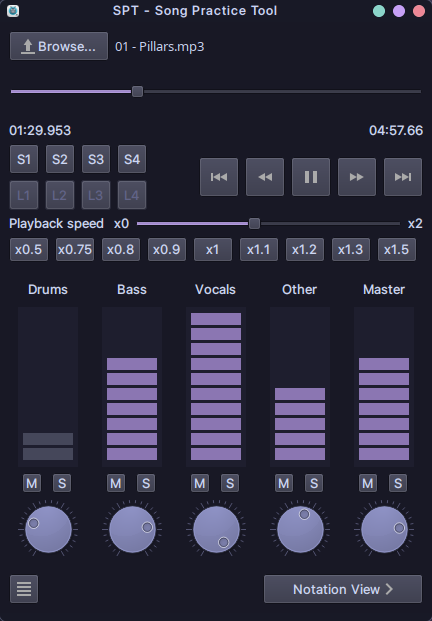
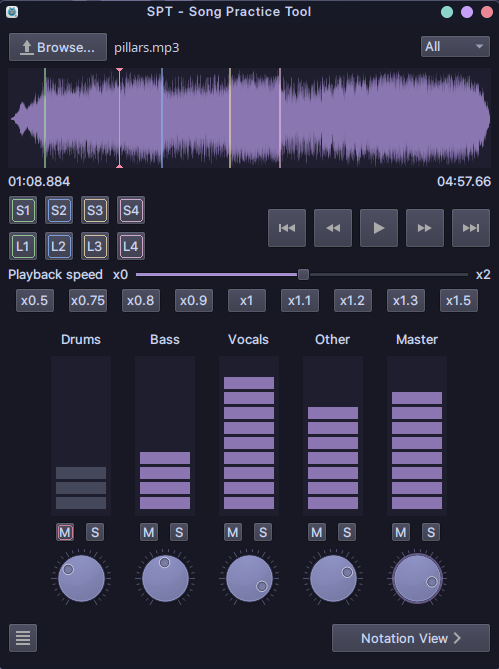
Docs: Update preview and readme

diff --git a/README.md b/README.md
@@ -2,18 +2,27 @@
 > 🚧 This project is incomplete and WIP. 🚧
 
 # SPT - Song Practice Tool
+
+<p align="center">
+<img src="https://raw.githubusercontent.com/AnicJov/SPT/main/res/preview.png"/>
+</p>
+
+
 This is a cross-platform tool that aims to help musicians practice songs with features that make repeating sections easy and playing along fun.
 
 Written in Python and PyQt6, using [demucs](https://github.com/facebookresearch/demucs) for instrument separation.
 
-### (Planned) Features:
+### Features:
 - Music player functions
-- Keyboard shortcuts support
-- URL import support
 - Playback speed control
 - Save/Load section markers
 - Automatic instrument stem separation
 - Instrument stem volume mixer
+
+Planned:
+- URL import support
+- Keyboard shortcuts support
+- Built in metronome with beat detection
 - Built in PDF viewer for viewing notation
 
 ## Usage
